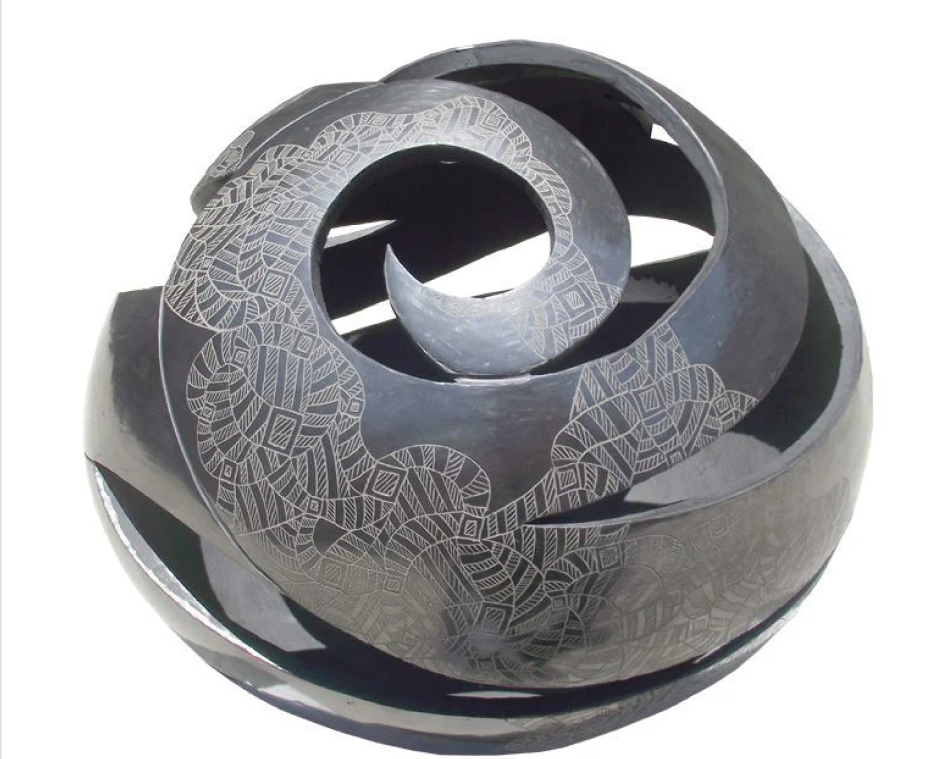
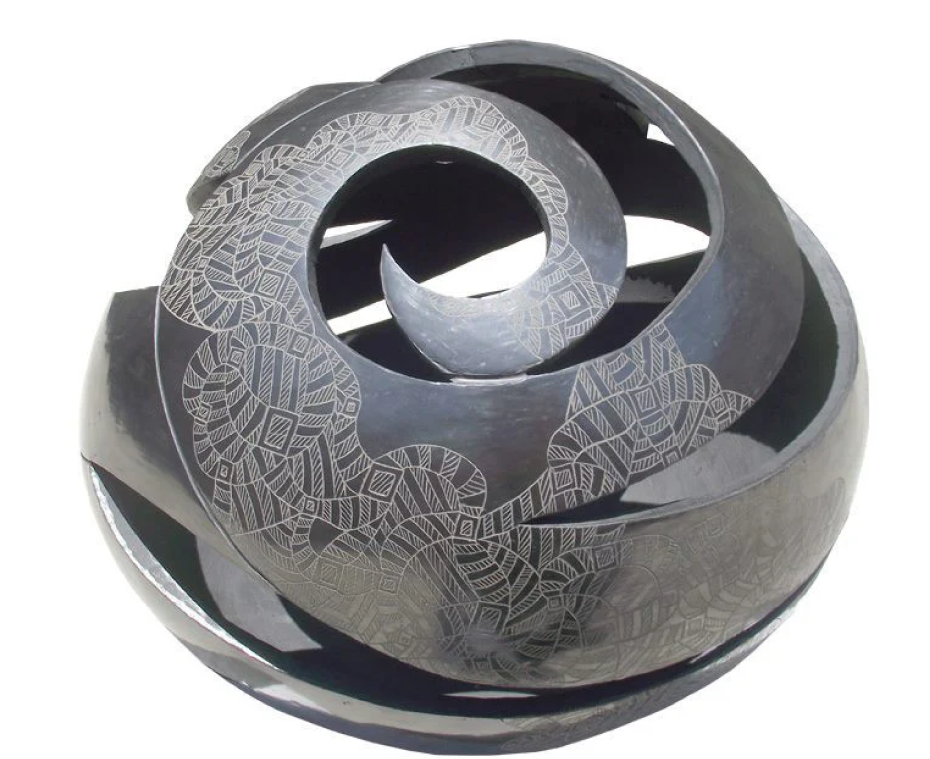
Se quitaron los bordes de los conetenedores, se recortó el margen izquierdo de la imagen producto1.png  y se agregó un borde a la sección de interac-producto

diff --git a/assets/styles/producto.css b/assets/styles/producto.css
@@ -153,12 +153,13 @@
 
 .images-producto {
     width: 60%;
-    border: 1px solid;
 }
 
 .interac-producto {
     width: 40%;
-    border: solid 1px;
+    border: 1px solid #969696;
+    border-radius: 15px;
+    margin: 0px 10px;
 }
 
 .miniaturas{
@@ -171,12 +172,8 @@
     border: solid 1px #969696;
 }
 
-.titulo-stars-fav{
-    border: 1px solid;
-}
 
 .titulo-producto{
-    border: 1px solid;
     text-align: center;
     font-size: 50px;
     margin: 20px 5px;
@@ -207,7 +204,6 @@
 
 .precio-envio{
     display: flex;
-    border: 1px solid;
     font-size: 40px;
     flex-direction: column;
     justify-content: center;
@@ -239,7 +235,6 @@
 }
 
 .botones-producto{
-    border: 1px solid;
     display: flex;
     flex-direction: column;
     justify-content: center;
@@ -283,7 +278,6 @@
 }
 
 .acerca-producto{
-    border: 1px solid;
     font-family: "Open Sans", sans-serif;
     font-optical-sizing: auto;
     font-weight: 400;
@@ -302,7 +296,6 @@
 }
 
 .info-vendedor{
-    margin: 10px;
 }
 
 .info-extra{
@@ -312,7 +305,6 @@
     border-top: 1px solid;
     border-bottom: 1px solid;
     border-color: #D9D9D9;
-    border-radius: 15px;
 }
 
 .caracteristicas-producto{
@@ -340,7 +332,6 @@
     font-variation-settings:"wdth" 100;
     background-color: #D9D9D9;
     width: 100%;
-    border-radius: 15px;
 }
 
 .info-adicional span{
@@ -524,7 +515,7 @@ h1{
 .zoom-area {
     display: none;
     position: absolute;
-    border: 2px solid gray;
+    border: 1px solid gray;
     background-color: rgba(230, 221, 221, 0.5);
     pointer-events: none;
 }
